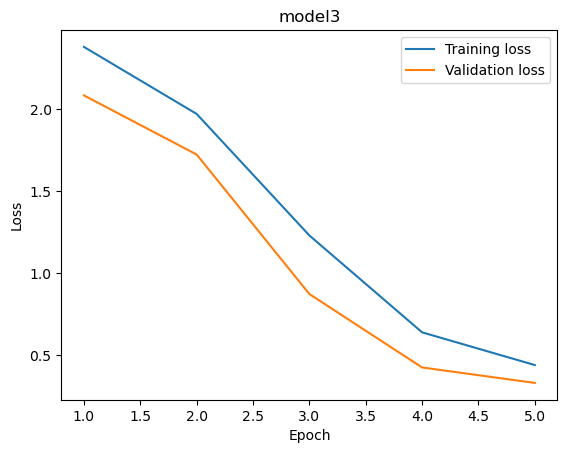
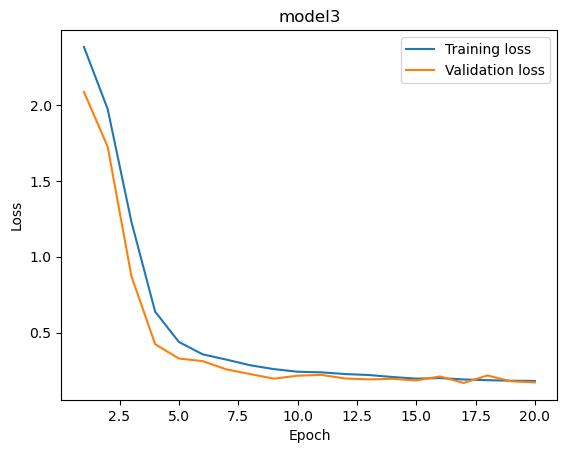
ferdig med tester

diff --git a/test_results/model5.md b/test_results/model5.md
@@ -1,2 +1,31 @@
-Training performance: [tensor(0.9071, device='cuda:0'), 0.3134052374964471, tensor(0.6102, device='cuda:0')]
-Validation performance:[tensor(0.8862, device='cuda:0'), 0.3150480752951676, tensor(0.6006, device='cuda:0')]
+SGD
+
+n_epochs = 5, batch_size = 64, lr = 0.01, momentum = 0.9, decay= 0.001, optim = sgd
+Training performance: [0.9071, 0.3134052374964471, 0.6102]
+Validation performance: [0.8862, 0.3150480752951676, 0.6006]
+
+n_epochs = 5, batch_size = 64, lr = 0.01, momentum = 0, decay= 0, optim = sgd
+Training performance: [0.30575757575757573, 0.2575437485484418, 0.28165066215300877]
+Validation performance:[0.30636363636363634, 0.2584355170493323, 0.2823995767064843]
+
+n_epochs = 5, batch_size = 256, lr = 0.01, momentum = 0, decay= 0, optim = sgd
+Training performance: [0.35053872053872054, 0.22355379620981275, 0.28704625837426667]
+Validation performance:[0.3510606060606061, 0.2212956560948025, 0.2861781310777043]
+
+n_epochs = 20, batch_size = 64, lr = 0.01, momentum = 0.9, decay= 0.001, optim = sgd
+Training performance: [0.9481481481481481, 0.44809295712055236, 0.6981205526343502]
+Validation performance:[0.9090909090909091, 0.44697527432863765, 0.6780330917097733]
+
+ADAM
+
+n_epochs = 5, batch_size = 64, lr = 0.01, optim = Adam
+Training performance: [0.09501682966947556, 0.09921895342139503, 0.09711789339780807]
+Validation performance:[0.09409090876579285, 0.10207396646926639, 0.09808243811130524]
+
+n_epochs = 5, batch_size = 256, lr = 0.01, optim = Adam
+Training performance: [0.09501682966947556, 0.1194593900678103, 0.10723811388015747]
+Validation performance:[0.09409090876579285, 0.1214437192968539, 0.10776731371879578]
+
+n_epochs = 20, batch_size = 64, lr = 0.01, optim = Adam
+Training performance: [0.10227272659540176, 0.11950531131122519, 0.1108890175819397]
+Validation performance:[0.10106060653924942, 0.12167965068595006, 0.11137013137340546]

diff --git a/test_results/model3.md b/test_results/model3.md
@@ -1,2 +1,31 @@
-Training performance: [tensor(0.9196, device='cuda:0'), 0.2676772339047359, tensor(0.5936, device='cuda:0')]
-Validation performance:[tensor(0.9121, device='cuda:0'), 0.26827938432535264, tensor(0.5902, device='cuda:0')]
+SGD
+
+n_epochs = 5, batch_size = 64, lr = 0.01, momentum = 0.9, decay= 0.001, optim = sgd
+Training performance: [0.9196, 0.2676772339047359, 0.5936]
+Validation performance:[0.9121, 0.26827938432535264, 0.5902]
+
+n_epochs = 5, batch_size = 64, lr = 0.01, momentum = 0, decay= 0, optim = sgd
+Training performance: [0.2987205387205387, 0.28219496555453005, 0.2904577521375344]
+Validation performance:[0.2956060606060606, 0.28375640642082567, 0.2896812335134431]
+
+n_epochs = 5, batch_size = 256, lr = 0.01, momentum = 0.9, decay= 0.001, optim = sgd
+Training performance: [0.20185185185185184, 0.3604981747371217, 0.2811750132944868]
+Validation performance:[0.19833333333333333, 0.3605088762477669, 0.2794211047905501]
+
+n_epochs = 20, batch_size = 64, lr = 0.01, momentum = 0.9, decay= 0.001, optim = sgd
+Training performance: [0.9762121212121212, 0.37899392903484647, 0.6776030251234838]
+Validation performance:[0.9556060606060606, 0.37758537207907344, 0.666595716342567]
+
+ADAM
+
+n_epochs = 5, batch_size = 64, lr = 0.01, optim = Adam
+Training performance: [0.4925757348537445, 0.13378135744571934, 0.31317853927612305]
+Validation performance:[0.4883333444595337, 0.13633106359684916, 0.3123322129249573]
+
+n_epochs = 5, batch_size = 256, lr = 0.01, optim = Adam
+Training performance: [0.3908080756664276, 0.1613577944187159, 0.27608293294906616]
+Validation performance:[0.3972727358341217, 0.16314672661975152, 0.2802097201347351]
+
+n_epochs = 20, batch_size = 64, lr = 0.01, optim = Adam
+Training performance: [0.4571380317211151, 0.12387851436422168, 0.2905082702636719]
+Validation performance:[0.46166667342185974, 0.12484198405257925, 0.2932543158531189]

diff --git a/test_results/model2.md b/test_results/model2.md
@@ -1,2 +1,31 @@
-Training performance: [tensor(0.9414, device='cuda:0'), 0.46038871395611536, tensor(0.7009, device='cuda:0')]
-Validation performance:[tensor(0.9215, device='cuda:0'), 0.46018012583263573, tensor(0.6908, device='cuda:0')]
+SGD
+
+n_epochs = 5, batch_size = 64, lr = 0.01, momentum = 0.9, decay= 0.001, optim = sgd
+Training performance: [0.9414, 0.46038871395611536, 0.7009]
+Validation performance:[0.9215, 0.46018012583263573,0.6908]
+
+n_epochs = 5, batch_size = 64, lr = 0.01, momentum = 0, decay= 0, optim = sgd
+Training performance: [0.28779461279461277, 0.3759075550548193, 0.3318510839247161]
+Validation performance:[0.286969696969697, 0.3752411147112603, 0.33110540584047865]
+
+n_epochs = 5, batch_size = 256, lr = 0.01, momentum = 0.9, decay= 0.001, optim = sgd
+Training performance: [0.5069023569023569, 0.3168154616825612, 0.41185890929245905]
+Validation performance:[0.49772727272727274, 0.3154361902378285, 0.4065817314825506]
+
+n_epochs = 20, batch_size = 64, lr = 0.01, momentum = 0.9, decay= 0.001, optim = sgd
+Training performance: [0.977104377104377, 0.5289817543254216, 0.7530430657148993]
+Validation performance:[0.9437878787878788, 0.5271023497007467, 0.7354451142443128]
+
+ADAM
+
+n_epochs = 5, batch_size = 64, lr = 0.01, optim = Adam
+Training performance: [0.7343938946723938, 0.2280867208689723, 0.48124030232429504]
+Validation performance:[0.7243939638137817, 0.2301723747206118, 0.47728317975997925]
+
+n_epochs = 5, batch_size = 256, lr = 0.01, optim = Adam
+Training performance: [0.09501682966947556, 0.12450537253031708, 0.10976110398769379]
+Validation performance:[0.09409090876579285, 0.1257996108958308, 0.10994525998830795]
+
+n_epochs = 20, batch_size = 64, lr = 0.01, optim = Adam
+Training performance: [0.7996464371681213, 0.1547151080505163, 0.4771807789802551]
+Validation performance:[0.786060631275177, 0.15075125812075993, 0.46840596199035645]

diff --git a/test_results/model1.md b/test_results/model1.md
@@ -1,2 +1,31 @@
-Training performance: [tensor(0.9306, device='cuda:0'), 0.2575426343877788, tensor(0.5941, device='cuda:0')]
-Validation performance:[tensor(0.8830, device='cuda:0'), 0.24959476476023917, tensor(0.5663, device='cuda:0')]
+SGD
+
+n_epochs = 5, batch_size = 64, lr = 0.01, momentum = 0.9, decay= 0.001, optim = sgd
+Training performance: [0.9306, 0.2575426343877788, 0.5941]
+Validation performance:[0.8830, 0.24959476476023917, 0.5663]
+
+n_epochs = 5, batch_size = 64, lr = 0.01, momentum = 0, decay= 0, optim = sgd
+Training performance: [0.39124579124579123, 0.36397979234433964, 0.37761279179506546]
+Validation performance:[0.38712121212121214, 0.35968464944500483, 0.3734029307831085]
+
+n_epochs = 5, batch_size = 256, lr = 0.01, momentum = 0.9, decay= 0.001, optim = sgd
+Training performance: [0.7761111111111111, 0.40942442915119814, 0.5927677701311547]
+Validation performance:[0.7571212121212121, 0.4022115302577982, 0.5796663711895051]
+
+n_epochs = 20, batch_size = 64, lr = 0.01, momentum = 0.9, decay= 0.001, optim = sgd
+Training performance: [0.9918013468013467, 0.10164555549826132, 0.546723451149804]
+Validation performance:[0.91, 0.10043463671500324, 0.5052173183575016]
+
+ADAM
+
+n_epochs = 5, batch_size = 64, lr = 0.01, optim = Adam
+Training performance: [0.10227272659540176, 0.11688116572612416, 0.10957694798707962]
+Validation performance:[0.10106060653924942, 0.11918815300950636, 0.1101243793964386]
+
+n_epochs = 5, batch_size = 256, lr = 0.01, optim = Adam
+Training performance: [0.09501682966947556, 0.10704091271977471, 0.10102887451648712]
+Validation performance:[0.09409090876579285, 0.10999161307182936, 0.10204125940799713]
+
+n_epochs = 20, batch_size = 64, lr = 0.01, optim = Adam
+Training performance: [0.10227272659540176, 0.11960634825272236, 0.11093953251838684]
+Validation performance:[0.10106060653924942, 0.12178123990091706, 0.11142092198133469]

diff --git a/test_results/model4.md b/test_results/model4.md
@@ -1,2 +1,5 @@
-Training performance: [tensor(0.9242, device='cuda:0'), 0.450063287543454, tensor(0.6871, device='cuda:0')]
-Validation performance:[tensor(0.8847, device='cuda:0'), 0.44652688964407844, tensor(0.6656, device='cuda:0')]
+SGD
+
+n_epochs = 5, batch_size = 64, lr = 0.01, momentum = 0.9, decay= 0.001, optim = sgd
+Training performance: [0.9242, 0.450063287543454, 0.6871]
+Validation performance:[0.8847, 0.44652688964407844, 0.6656]
